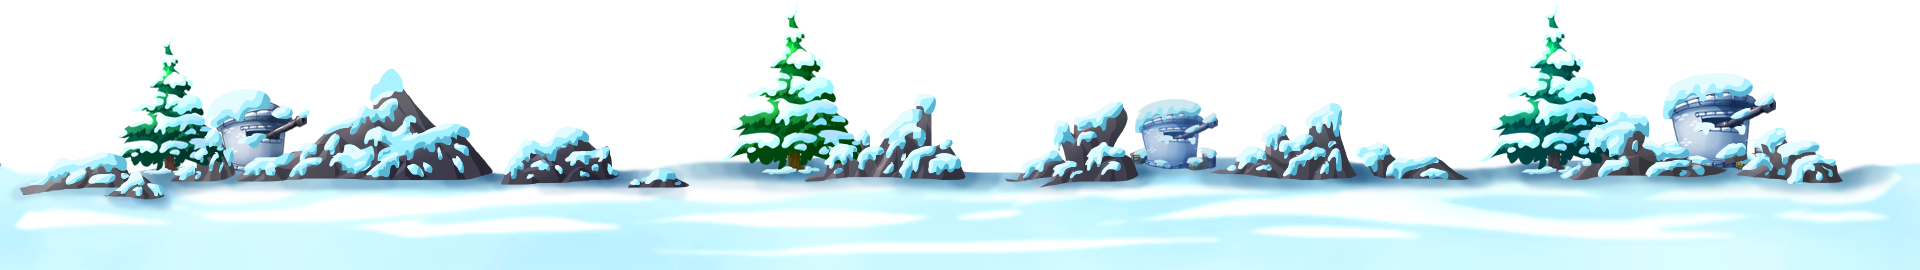
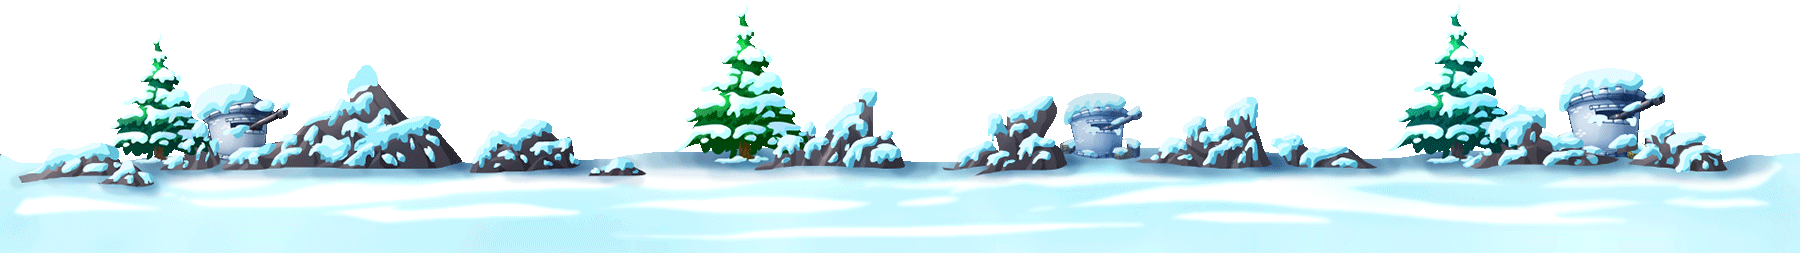
change the level 1 background and reset the preview url

diff --git a/02HTML/4Canvas/DEMO/SNOWMAN/js/libs/Route.js b/02HTML/4Canvas/DEMO/SNOWMAN/js/libs/Route.js
@@ -7,6 +7,8 @@ SNOW.Route = function (x, y, width ) {
         this.img.src = 'images/bg/mountains.png';
         this.tree = new Image();
         this.tree.src = 'images/bg/tree.png';
+        this.trees = new Image();
+        this.trees.src = 'images/bg/trees.png';
         this.width = width; 
 
     }
@@ -20,12 +22,16 @@ SNOW.Route = function (x, y, width ) {
 
     this.render = function () {
         // mountains
-        // SNOW.Draw.Image(this.img, this.x, this.y);
-        // SNOW.Draw.Image(this.img, this.x + this.width, this.y);
+        SNOW.Draw.Image(this.img, this.x, this.y);
+        SNOW.Draw.Image(this.img, this.x + this.width, this.y);
         
         // trees
         SNOW.Draw.Image(this.tree, this.x, SNOW.HEIGHT - 223);
         SNOW.Draw.Image(this.tree, this.x + this.width, SNOW.HEIGHT - 223); 
+
+        // trees
+        SNOW.Draw.Image(this.trees, this.x, SNOW.HEIGHT - 253);
+        SNOW.Draw.Image(this.trees, this.x + this.width, SNOW.HEIGHT - 253); 
         
     }
 

diff --git a/02HTML/4Canvas/DEMO/SNOWMAN/js/game.js b/02HTML/4Canvas/DEMO/SNOWMAN/js/game.js
@@ -54,9 +54,9 @@ window.Play = function () {
         
         SNOW.entities = [];
         // Add entities
-        SNOW.entities.push(new SNOW.Cloud(30, ~~(Math.random() * SNOW.HEIGHT / 2)));
-        SNOW.entities.push(new SNOW.Cloud(~~(Math.random() * (SNOW.WIDTH * 2)), ~~(Math.random() * SNOW.HEIGHT / 2)));
-        SNOW.entities.push(new SNOW.Cloud(~~(Math.random() * (SNOW.WIDTH * 3)), ~~(Math.random() * SNOW.HEIGHT / 2)));
+        // SNOW.entities.push(new SNOW.Cloud(30, ~~(Math.random() * SNOW.HEIGHT / 2)));
+        // SNOW.entities.push(new SNOW.Cloud(~~(Math.random() * (SNOW.WIDTH * 2)), ~~(Math.random() * SNOW.HEIGHT / 2)));
+        // SNOW.entities.push(new SNOW.Cloud(~~(Math.random() * (SNOW.WIDTH * 3)), ~~(Math.random() * SNOW.HEIGHT / 2)));
         SNOW.sled = new SNOW.Sled(100, 92); 
         SNOW.entities.push(new SNOW.Snow());  
         SNOW.lock = new SNOW.Lock(SNOW.WIDTH, SNOW.HEIGHT - 120);

diff --git a/02HTML/4Canvas/DEMO/SNOWMAN/js/SNOW.js b/02HTML/4Canvas/DEMO/SNOWMAN/js/SNOW.js
@@ -190,7 +190,7 @@ var SNOW = {
                 //return hs; 
             }
         };
-        xhttp.open("GET", "http://preview2.williamsleatag.cn/shanghai/WLT/Snowman/data/getTop.php", true);
+        xhttp.open("GET", "http://wltshtdi2.w256-e1.ezwebtest.com/shanghai/WLT/Snowman/data/getTop.php", true);
         xhttp.send();
     },
     postData: function () {
@@ -201,7 +201,7 @@ var SNOW = {
                 SNOW.readData();
             }
         };
-        xhttp.open("POST", "http://preview2.williamsleatag.cn/shanghai/WLT/Snowman/data/insertData.php" + params, true);
+        xhttp.open("POST", "http://wltshtdi2.w256-e1.ezwebtest.com/shanghai/WLT/Snowman/data/insertData.php" + params, true);
         xhttp.send();
     },
     resetGame: function (s) {

diff --git a/02HTML/4Canvas/DEMO/SNOWMAN/Readme.md b/02HTML/4Canvas/DEMO/SNOWMAN/Readme.md
@@ -20,5 +20,6 @@
 
 
 http://preview2.williamsleatag.cn/shanghai/WLT/Snowman/
+http://wltshtdi2.w256-e1.ezwebtest.com/shanghai/WLT/Snowman/
 
 https://www.youtube.com/watch?v=ddvnWRMdt-k
